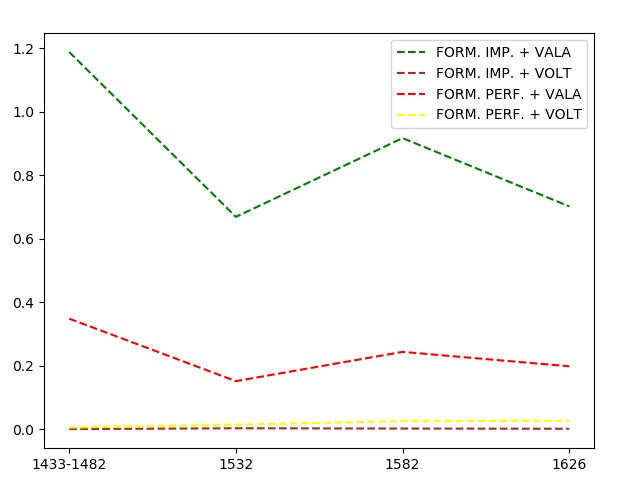
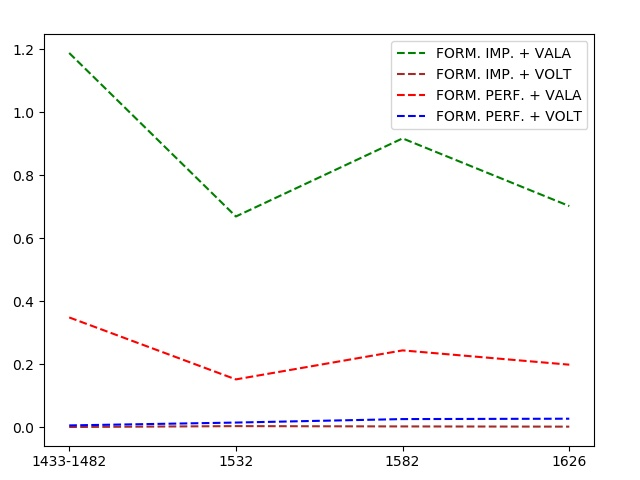
[add][cos] vegso diagramok felkerultek, a dokumentacio van hatra

diff --git a/scripts/create_plot.py b/scripts/create_plot.py
@@ -6,36 +6,38 @@ sys.path.append('../')
 from scripts.common import str2bool
 
 # TODO: megcsinálni újra az összes diagramot, utána szakdogaírás:
-# form: all, valavolt_descr, valavolt_nondescr
-# inform: all, valavolt_descr, valavolt_nondescr
-# form-inform: perfektum vala+volt, valavolt_descr, valavolt_nondescr, imperfektum vala+volt
+# kész: form: all, valavolt_discr, valavolt_nondescr
+# kész: inform: all, valavolt_discr, valavolt_nondiscr
+
+# kész form-inform: perfektum vala+volt, valavolt_descr, valavolt_nondiscr,
+# imperfektum vala+volt
 
 LINES = {'inform.':
              {'perf.':
                   {'vala': ('red', '-'),
-                   'volt': ('yellow', '-')},
+                   'volt': ('blue', '-')},
               'imp.':
                   {'vala': ('green', '-'),
                    'volt': ('brown', '-')},
-              'descr.':
+              'discr.':
                   {'vala': ('red', '-'),
-                   'volt': ('yellow', '-')},
-              'non descr.':
+                   'volt': ('blue', '-')},
+              'non discr.':
                   {'vala': ('red', '-'),
-                   'volt': ('yellow', '-')}},
+                   'volt': ('blue', '-')}},
          'form.':
              {'perf.':
                   {'vala': ('red', '--'),
-                   'volt': ('yellow', '--')},
+                   'volt': ('blue', '--')},
               'imp.':
                   {'vala': ('green', '--'),
                    'volt': ('brown', '--')},
-              'descr.':
+              'discr.':
                   {'vala': ('red', '--'),
-                   'volt': ('yellow', '--')},
-              'non descr.':
+                   'volt': ('blue', '--')},
+              'non discr.':
                   {'vala': ('red', '--'),
-                   'volt': ('yellow', '--')}
+                   'volt': ('blue', '--')}
               }}
 
 
@@ -127,7 +129,8 @@ def process(inp, interval, is_mixed):
     for freq_ls in all_freq_ls:
         past_type = freq_ls.pop(0)
         freq_ls = split_years(freq_ls, interval)
-        get_plot(freq_ls, past_type, '{} {} + {}'.format(past_type[0], past_type[1], past_type[2]))
+        join_with = '{} {} + {}' if 'discr' not in past_type[1].lower() else '{} {} {}'
+        get_plot(freq_ls, past_type, join_with.format(past_type[0], past_type[1], past_type[2]))
     plt.legend()
     plt.show()
 
